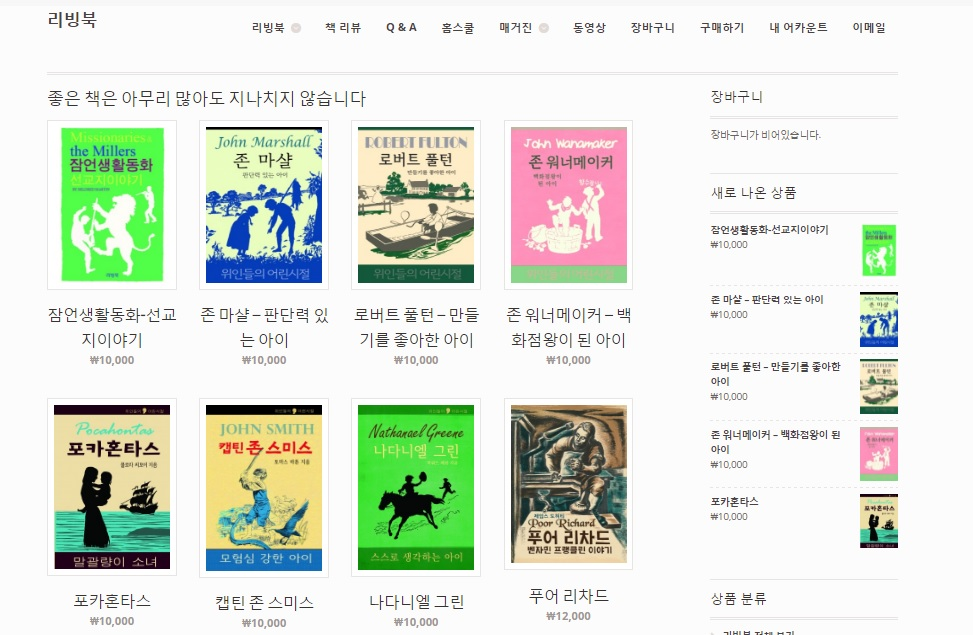
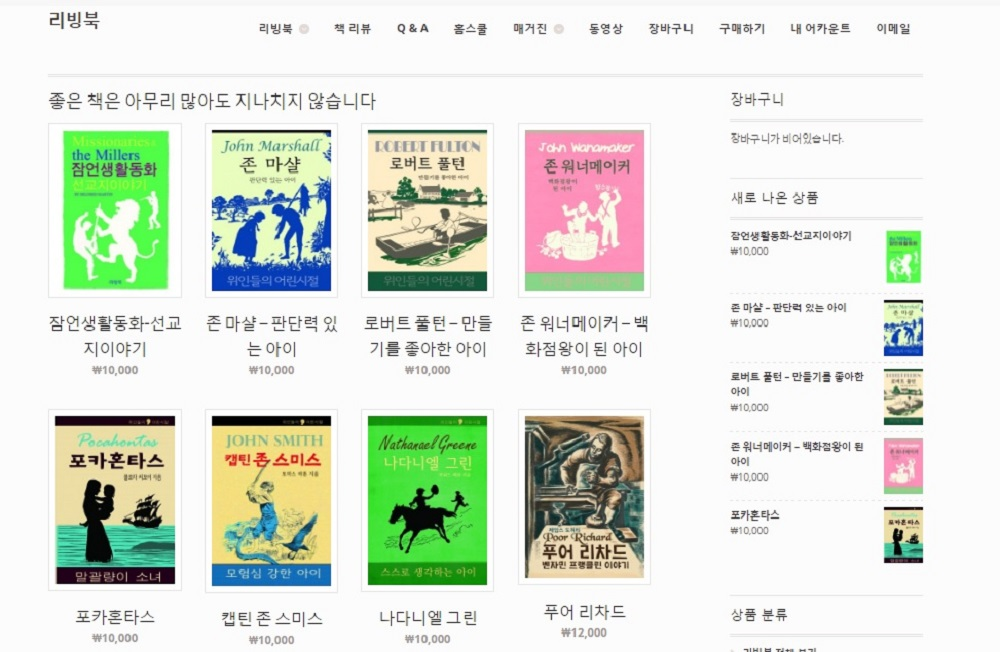
Add files via upload

diff --git a/Portfolio/styles/stylesheet.css b/Portfolio/styles/stylesheet.css
@@ -5,6 +5,7 @@ body {
 	font-family: "Georgia", "Times New Roman", serif;
 	height: 100%;
 	width: 100%;
+
 }
 
 p {
@@ -24,6 +25,8 @@ p {
 
 /* Menu styles, align right in a row, font styles, margins */
 .row nav #menu {
+
+
 	display: flex;
 	justify-content: flex-end;
 	background-color: white;
@@ -83,7 +86,7 @@ p {
 }
 
 /* print design h2 style */
-.container h3 {
+.container h4 {
 	font-family: "Georgia", "Times New Roman", serif;
 	padding-bottom: 20px;
 }
@@ -122,6 +125,84 @@ p {
 	border-bottom-style: double;
 	border-color: gray;
 	font-family: "Georgia", "Times New Roman", serif;
+}
+
+/* modals */
+#img {
+
+    cursor: pointer;
+    transition: 0.3s;
+}
+
+#img:hover {opacity: 0.7;}
+
+/* The Modal (background) */
+.modal {
+    display: none; /* Hidden by default */
+    position: fixed; /* Stay in place */
+    z-index: 1; /* Sit on top */
+    padding-top: 100px; /* Location of the box */
+    left: 0;
+    top: 0;
+    width: 100%; /* Full width */
+    height: 100%; /* Full height */
+    overflow: auto; /* Enable scroll if needed */
+    background-color: rgb(0,0,0); /* Fallback color */
+    background-color: rgba(0,0,0,0.9); /* Black w/ opacity */
+}
+
+/* Modal Content (Image) */
+.modal-content {
+    margin: auto;
+    display: block;
+    width: 100%;
+		height: 100%;
+		max-height: none;
+		max-width: none;
+
+}
+
+/* Add Animation - Zoom in the Modal */
+.modal-content, #caption {
+    -webkit-animation-name: zoom;
+    -webkit-animation-duration: 0.6s;
+    animation-name: zoom;
+    animation-duration: 0.6s;
+}
+
+@-webkit-keyframes zoom {
+    from {-webkit-transform:scale(1)}
+    to {-webkit-transform:scale(2)}
+}
+
+@keyframes zoom {
+    from {transform:scale(1)}
+    to {transform:scale(2)}
+}
+
+/* The Close Button */
+.close {
+    position: absolute;
+    top: 25px;
+    right: 35px;
+    color: white;
+    font-size: 60px;
+    font-weight: bold;
+    transition: 0.3s;
+}
+
+.close:hover,
+.close:focus {
+    color: #bbb;
+    text-decoration: none;
+    cursor: pointer;
+}
+
+/* 100% Image Width on Smaller Screens */
+@media only screen and (max-width: 2000px){
+    .modal-content {
+        width: 2000px;
+    }
 }
 
 /* footer */

diff --git a/Portfolio/Home.html b/Portfolio/Home.html
@@ -47,7 +47,7 @@
 
 	<!-- My design works, book covers -->
 	<section class="container" id="design">
-		<h3>Print Design</h3>
+		<h4>Print Design</h4>
 		<div class="row">
 			<figure class="col-sm-2">
 				<img src="images/USGrant.jpg">
@@ -92,12 +92,16 @@
 	</section>
 
 	<section class="container" id="digital">
-		<h3>Web Development</h3>
+		<h4>Web Development</h4>
 
 			<div class="row" id="website">
 				<figure class="col-sm-4">
 				  <a href="http://livingbook.kr"><h4>Livingbook</h4></a>
-				  <img src="images/LivingbookWebsite.jpg">
+				  <img id="img" src="images/LivingbookWebsite.jpg">
+					<div id="modal" class="modal">
+						<span class="close" onclick="getElementById('modal').style.display='none'">&times;</span>
+						<img class="modal-content" id="livingbookImg">
+					</div>
           <p>A wordpress website I made for the Korean publishing company Livingbook</p>
 				</figure>
 				<figure class="col-sm-4">
@@ -122,5 +126,7 @@
                 <a href="https://www.linkedin.com/in/shelly-ahn-93a13b122/"><img src="images/LinkedInLogo.png" /></a>
 		</div>
 	</footer>
+
+	<script src="script.js"></script>
 </body>
 </html>

diff --git a/Portfolio/script.js b/Portfolio/script.js
@@ -1,0 +1,21 @@
+// javascript file for Portfolio website
+// Get the modal
+var modal = document.getElementById('modal');
+
+// Get the image and insert it inside the modal - use its "alt" text as a caption
+var img = document.getElementById('img');
+var modalImg = document.getElementById("livingbookImg");
+// var captionText = document.getElementById("caption");
+img.onclick = function(){
+    modal.style.display = "block";
+    modalImg.src = this.src;
+    // captionText.innerHTML = this.alt;
+}
+
+// Get the <span> element that closes the modal
+var span = document.getElementsByClassName("close")[0];
+
+// When the user clicks on <span> (x), close the modal
+span.onclick = function() {
+  modal.style.display = "none";
+}
